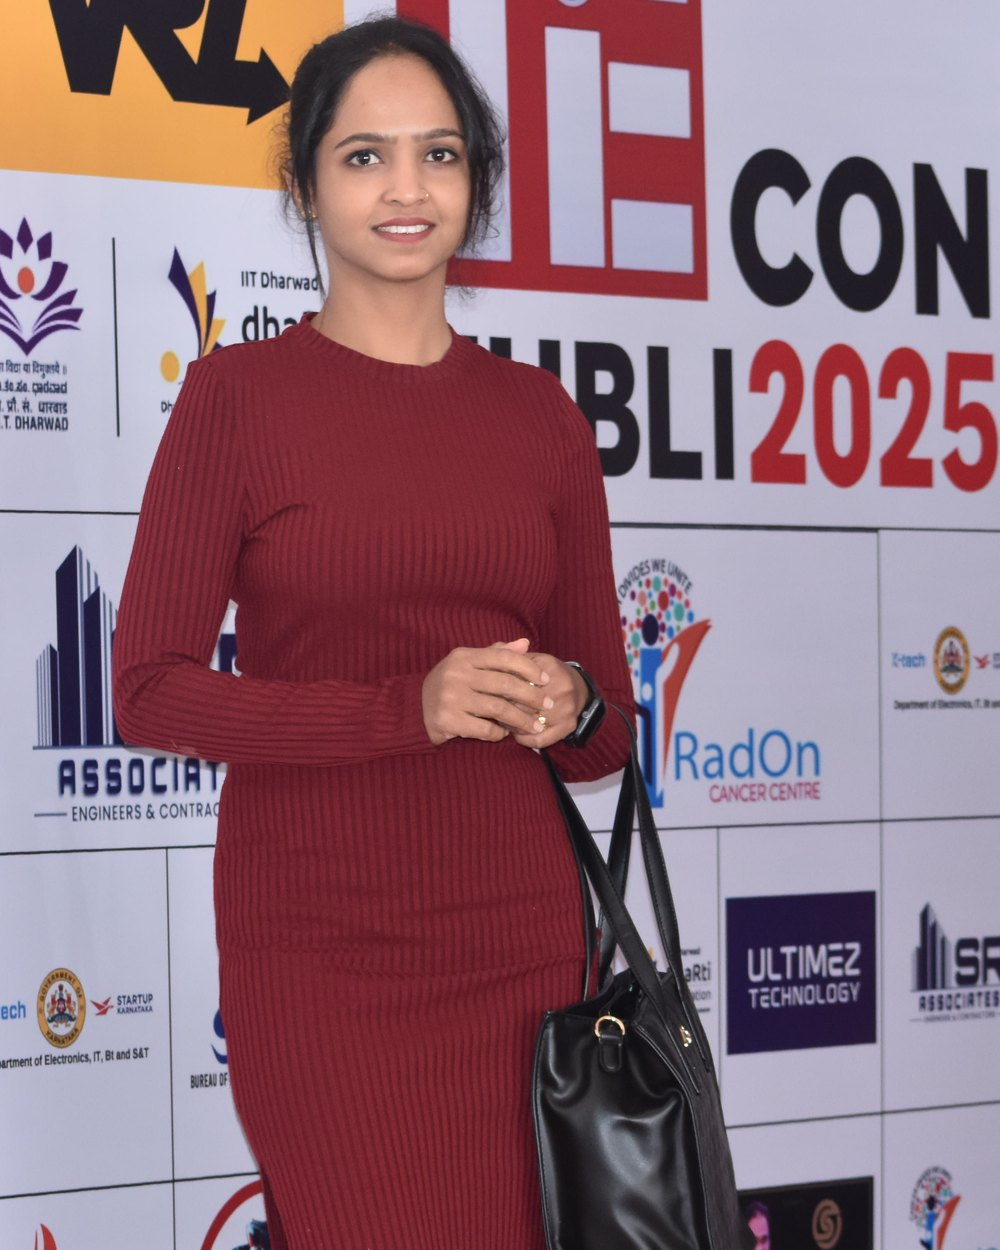
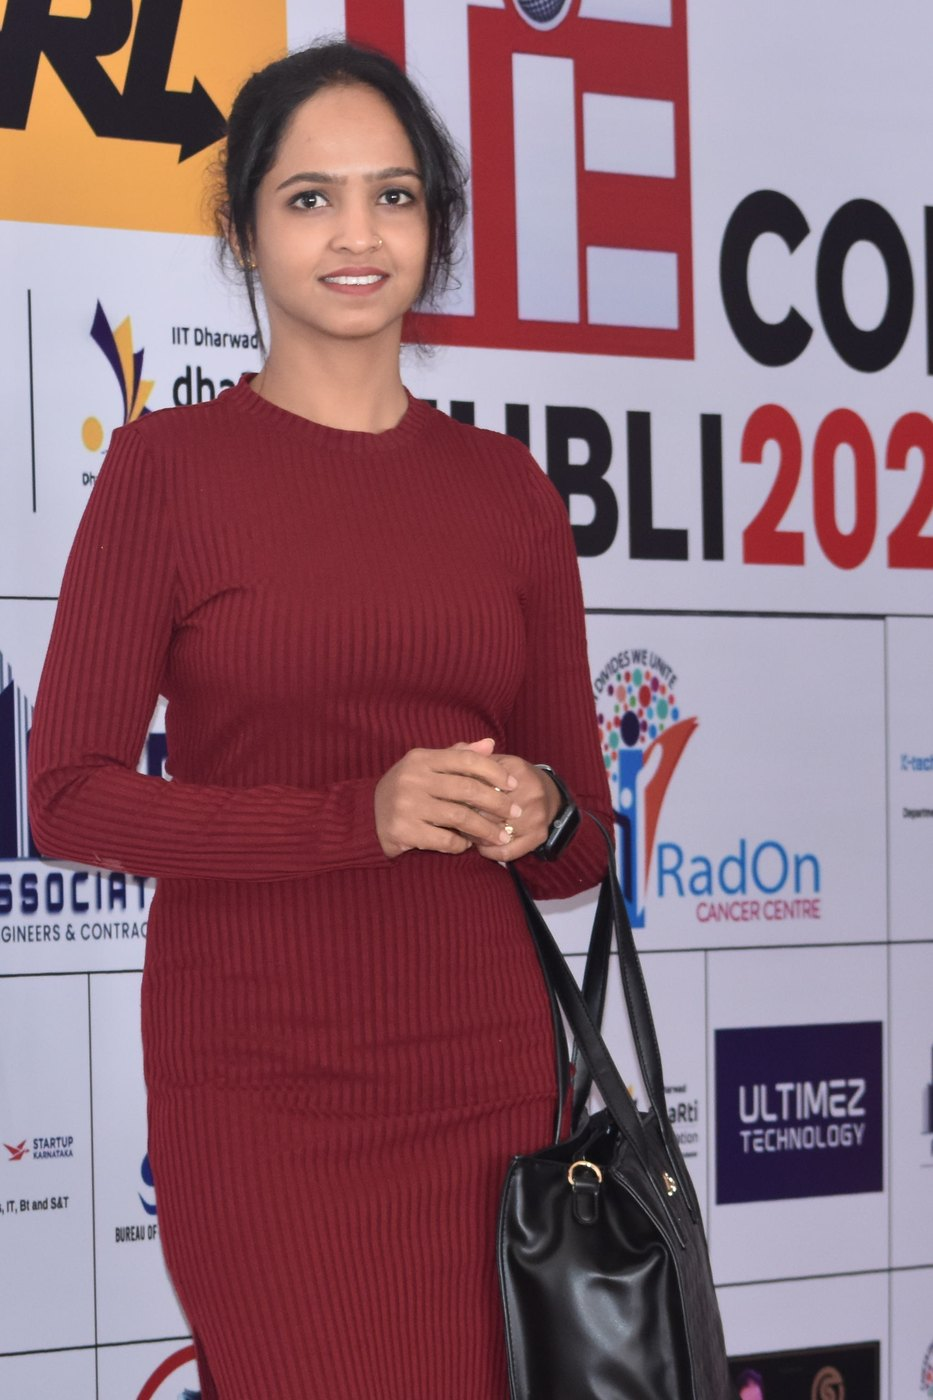
Match director portrait ratios

diff --git a/style.css b/style.css
@@ -464,7 +464,7 @@ img {
 
 .founder-photo img {
   width: 100%;
-  aspect-ratio: 4 / 5;
+  aspect-ratio: 933 / 1400;
   object-fit: cover;
   object-position: center top;
 }